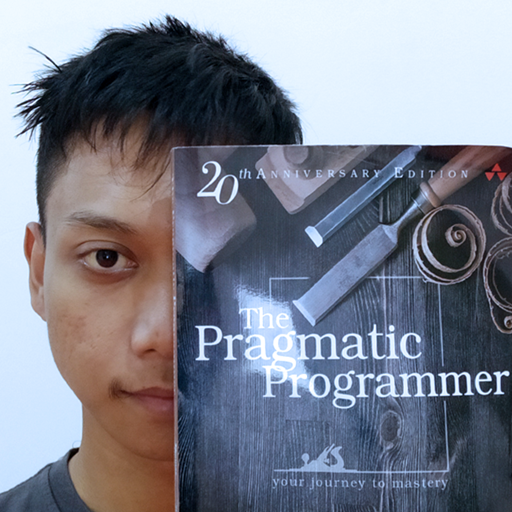
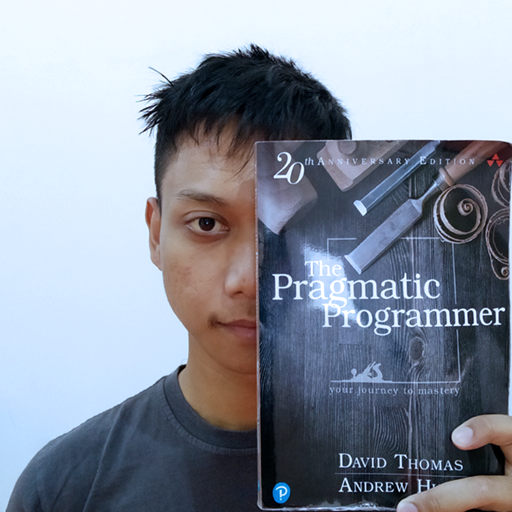
changes

diff --git a/index.html b/index.html
@@ -48,7 +48,7 @@
     <div class="d-flex flex-column">
 
       <div class="profile">
-        <img src="assets/img/Self-Portrait.png" alt="" class="img-fluid rounded-circle">
+        <img src="assets/img/Self-Book-Zoomed.png" alt="" class="img-fluid rounded-circle">
         <h1 class="text-light"><a href="index.html">Ratanajaya</a></h1>
         <div class="social-links mt-3 text-center">
           <a href="https://github.com/ratanajaya" class="github"><i class="bx bxl-github"></i></a>
@@ -74,7 +74,7 @@
   <!-- ======= Hero Section ======= -->
   <section id="hero" class="d-flex flex-column justify-content-center align-items-center">
     <div class="hero-container" data-aos="fade-in">
-      <h1>Dhemma Ratanajaya</h1>
+      <h1>Ratanajaya</h1>
       <p>
         <span class="typed" data-typed-items="Full-Stack, .Net, ReactJs, Azure"></span>
         Developer
@@ -108,7 +108,7 @@
             <div class="row">
               <div class="col-lg-10 textJustify">
                 <ul>
-                  <li><i class="bi bi-chevron-right"></i><span>Has <strong class="noMargin">2 years and 2
+                  <li><i class="bi bi-chevron-right"></i><span>Has <strong class="noMargin">2 years and 5
                         months</strong> of work
                       experience</span></li>
                   <li><i class="bi bi-chevron-right"></i><span>Has <strong>10 years</strong> total experience of coding
@@ -282,15 +282,14 @@
           <div class="col-lg-6" data-aos="fade-up">
             <h3 class="resume-title">Experiences</h3>
             <div class="resume-item">
-              <h4>[Company Redacted]</h4>
+              <h4>iForce Consulting</h4>
               <h5>2021/03 - Present</h5>
               <p><strong>Job Title: </strong><em>.Net Developer</em></p>
               <ul>
                 <li>Gather requirements through weekly meeting with clients</li>
                 <li>Design applications looks and functionalities and formalize them in a Functional Specification
                   Document</li>
-                <li>Develop an application as the sole programmer on the project using .Net MVC with Razor-JQuery
-                  frontend</li>
+                <li>Develop an application as the sole programmer of the project</li>
               </ul>
             </div>
             <div class="resume-item">
@@ -298,11 +297,9 @@
               <h5>2020/02 - 2021/01</h5>
               <p><strong>Job Title: </strong><em>.Net Programmer</em></p>
               <ul>
-                <li>Develop a new web app using .Net MVC with Razor & JQuery</li>
-                <li>Develop a new web app using .Net MVC as a backend API and ReactJs</li>
-                <li>Take the responsibilities of an IT Help Desk to troubleshoot issues and answers questions from
-                  clients</li>
-                <li>Perform enhancement and bugfixes on a legacy .Net MVC web app</li>
+                <li>Develop 2 new web applications using various tech stacks</li>
+                <li>Take the responsibilities of an IT Help Desk to troubleshoot issues and answers questions from clients</li>
+                <li>Perform enhancement and bugfixes on a legacy web app</li>
               </ul>
             </div>
             <div class="resume-item">
@@ -311,10 +308,9 @@
               <h5>2019/03 - 2020/02</h5>
               <p><strong>Job Title: </strong><em>IT Development Core Project Staff</em></p>
               <ul>
-                <li>Develop several modules of a .Net Framework MVC application</li>
-                <li>Work in a team as a front-end ReactJs programmer to develop a modern Progressive Web Application
-                </li>
-                <li>Perform enhancement and bugfixes on various legacy MVC apps, WebForm apps, and Stored Procedures
+                <li>Develop several modules of a huge microservice application</li>
+                <li>Develop a new web application as a front-end programmer</li>
+                <li>Perform enhancement and bugfixes on various legacy applications and stored procedures
                 </li>
               </ul>
             </div>
@@ -329,8 +325,8 @@
             <h3 class="resume-title">Projects</h3>
             <div class="resume-item">
               <h4>Shipment Monitoring</h4>
-              <h5>2021/03 - 2021/05</h5>
-              <p><strong>Company: </strong>[Company Redacted]</p>
+              <h5>2021/03 - 2021/06</h5>
+              <p><strong>Company: </strong>iForce Consulting</p>
               <p><strong>Role: </strong>Programmer, System Analyst</p>
               <p><strong>Tech: </strong>.Net Core 3.1, Razor-Jquery-<strong>Devextreme</strong>, SQL Server</p>
             </div>
